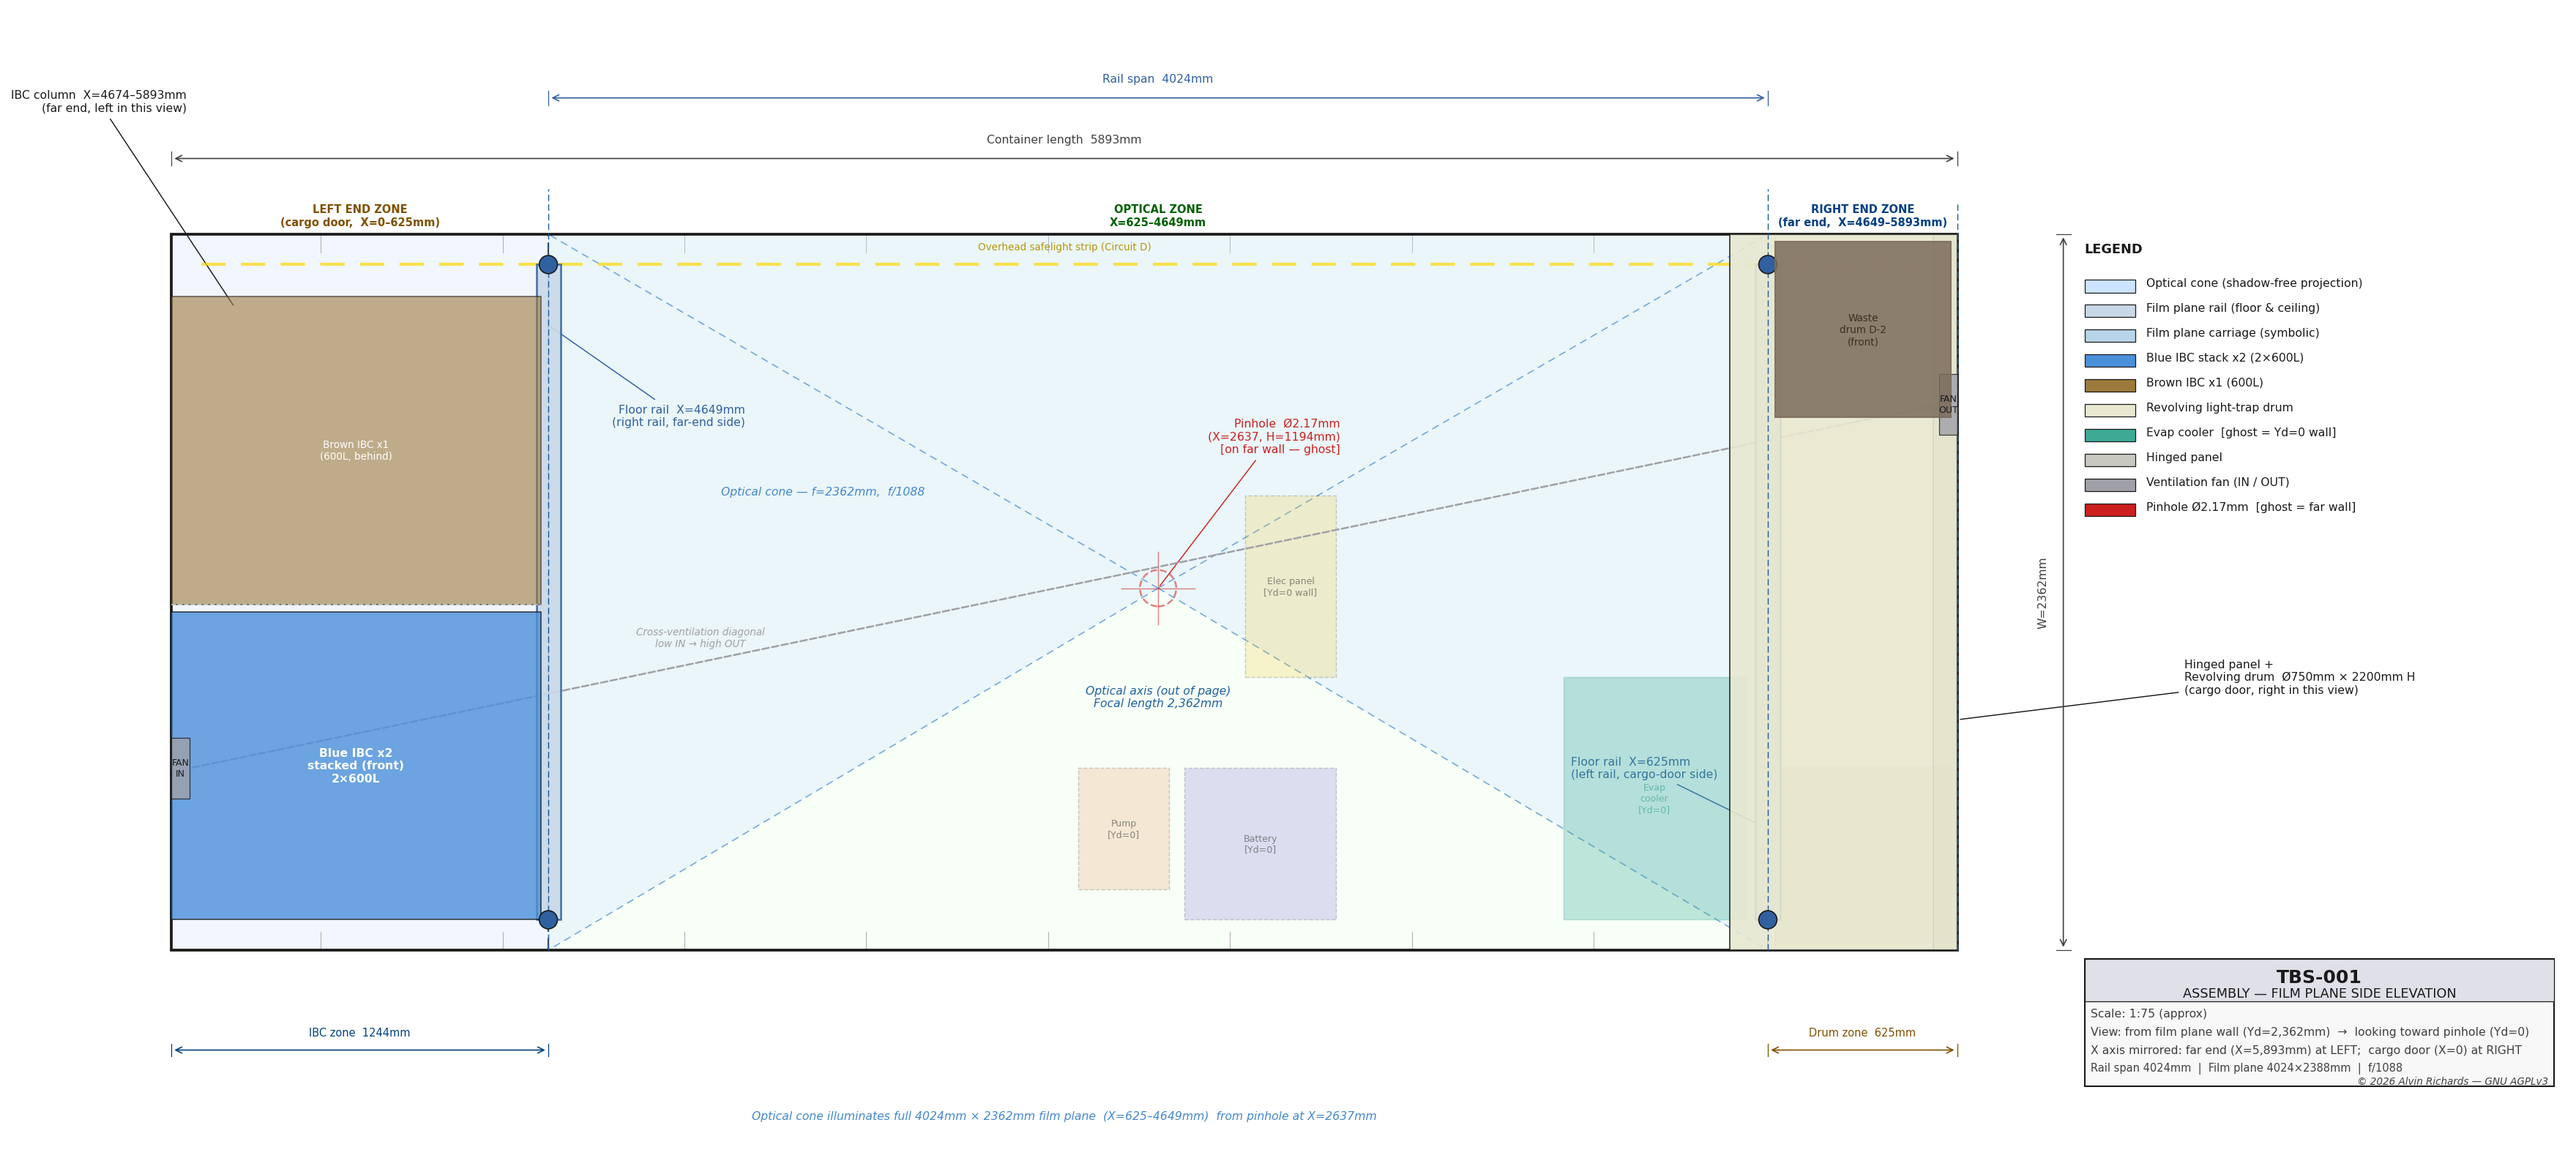
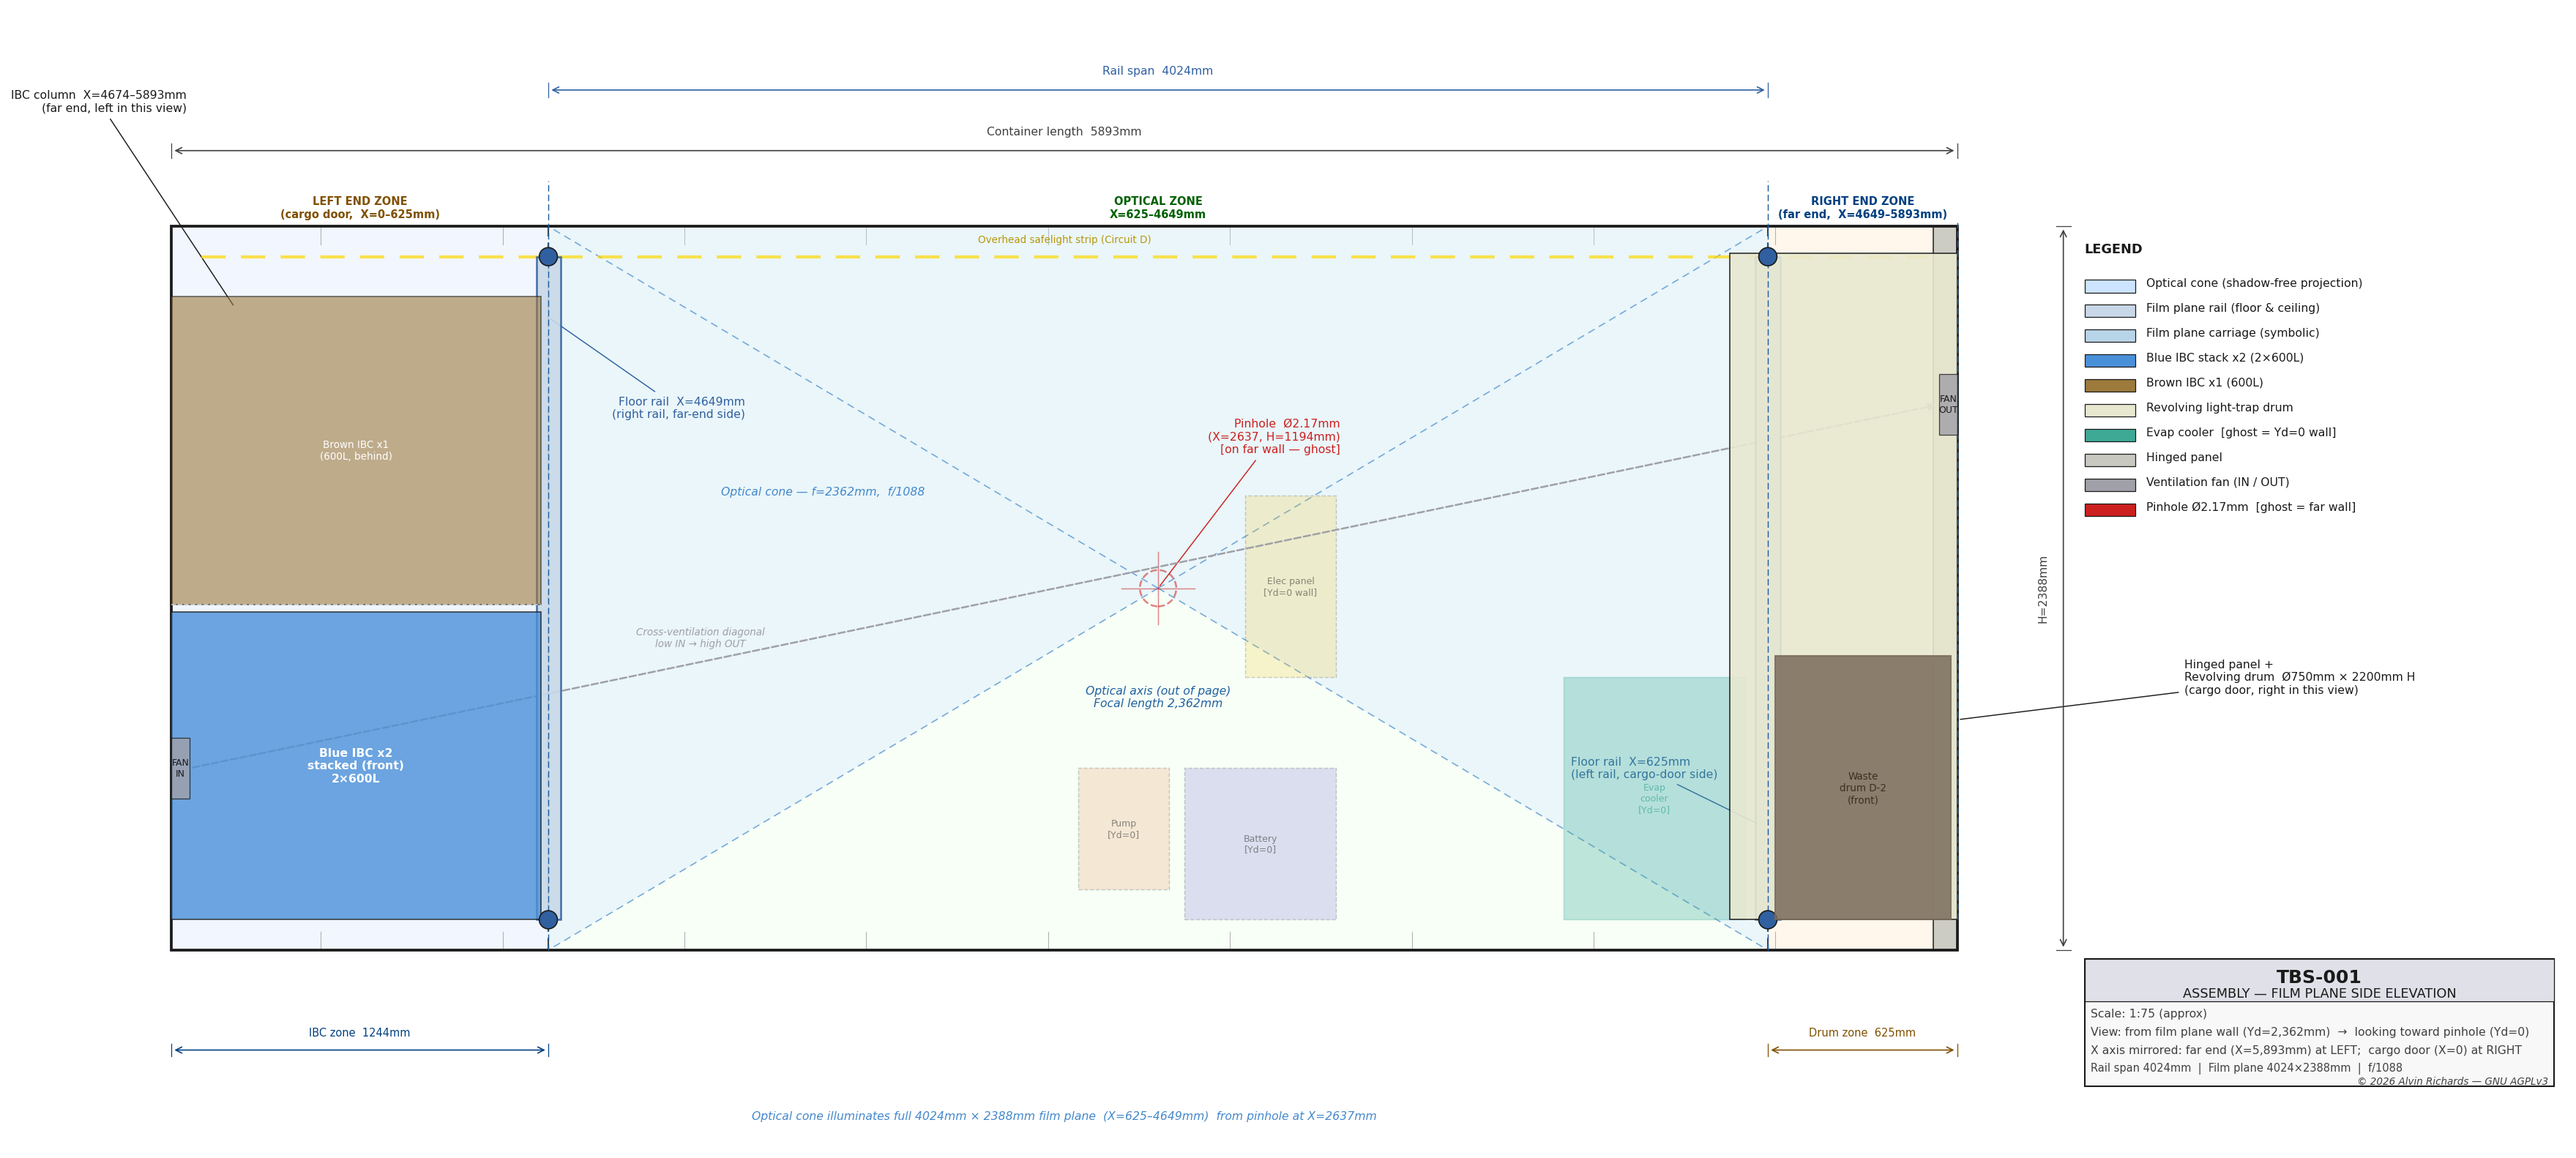
Revert "Fix top-down view: use correct Yd positions and C_WID throughout"
This reverts commit 104f43bd3e2fffe64f2b70eee402fd8566283585.

Changed region(s): [[0.0619, 0.0619, 0.7744, 0.3717], [0.6505, 0.5575, 0.7744, 0.8363], [0.2168, 0.3407, 0.3097, 0.3717]]

diff --git a/generate_assembly_overview.py b/generate_assembly_overview.py
@@ -42,8 +42,7 @@ from tbs_constants import (
     IBC_COL_X, IBC_W, IBC_D, IBC_H_STK, IBC_H_600,
     BLUE_IBC_Y, BROWN_IBC_Y,
     DRUM_EQ_D, DRUM_EQ_H, DRUM_EQ_R,
-    DRUM_LZ_CX, DRUM_LZ_YD_LO,
-    DRUM_FZ_CX, DRUM_FZ_YD_LO,
+    DRUM_LZ_CX, DRUM_FZ_CX,
     RAIL_X_L, RAIL_X_R, RAIL_SPAN,
     FAN_A_H, FAN_B_H, FAN_DIAM, DUCT_HEIGHT,
     DIAGRAMS_DIR,
@@ -489,38 +488,38 @@ def dim2h(x1, x2, y, label, offset=80, fs=FS_SM, color=C_DIM):
             fontsize=fs, color=color)
 
 # ── Zone fills ────────────────────────────────────────────────────────────────
-ax2.add_patch(mpatches.Rectangle((mx(ZONE_L_END), 0), ZONE_L_END, C_WID,
+ax2.add_patch(mpatches.Rectangle((mx(ZONE_L_END), 0), ZONE_L_END, C_HGT,
              facecolor=C_ZONE_L, edgecolor="none", alpha=0.6, zorder=0))
-ax2.add_patch(mpatches.Rectangle((mx(ZONE_R_START), 0), ZONE_R_START - ZONE_L_END, C_WID,
+ax2.add_patch(mpatches.Rectangle((mx(ZONE_R_START), 0), ZONE_R_START - ZONE_L_END, C_HGT,
              facecolor=C_ZONE_O, edgecolor="none", alpha=0.5, zorder=0))
-ax2.add_patch(mpatches.Rectangle((0, 0), C_LEN - ZONE_R_START, C_WID,
+ax2.add_patch(mpatches.Rectangle((0, 0), C_LEN - ZONE_R_START, C_HGT,
              facecolor=C_ZONE_R, edgecolor="none", alpha=0.6, zorder=0))
 
 for xb in [ZONE_L_END, ZONE_R_START]:
-    ax2.plot([mx(xb), mx(xb)], [0, C_WID], color=C_DIM, lw=1.0, ls="--",
+    ax2.plot([mx(xb), mx(xb)], [0, C_HGT], color=C_DIM, lw=1.0, ls="--",
             dashes=(8, 4), zorder=4)
 
 # Zone labels — note LEFT/RIGHT labels swap because view is mirrored
-ax2.text(mx(ZONE_L_END/2), C_WID + 100,
+ax2.text(mx(ZONE_L_END/2), C_HGT + 100,
         f"RIGHT END ZONE\n(far end,  X={ZONE_R_START}–{C_LEN}mm)",
         ha="center", va="top", fontsize=FS_SM - 0.5, color="#004080",
         fontweight="bold", zorder=5)
-ax2.text(mx((ZONE_L_END + ZONE_R_START) / 2), C_WID + 100,
+ax2.text(mx((ZONE_L_END + ZONE_R_START) / 2), C_HGT + 100,
         f"OPTICAL ZONE\nX={ZONE_L_END}–{ZONE_R_START}mm",
         ha="center", va="top", fontsize=FS_SM - 0.5, color="#006000",
         fontweight="bold", zorder=5)
-ax2.text(mx((ZONE_R_START + C_LEN) / 2), C_WID + 100,
+ax2.text(mx((ZONE_R_START + C_LEN) / 2), C_HGT + 100,
         f"LEFT END ZONE\n(cargo door,  X=0–{ZONE_L_END}mm)",
         ha="center", va="top", fontsize=FS_SM - 0.5, color="#805000",
         fontweight="bold", zorder=5)
 
 # ── Container outline ─────────────────────────────────────────────────────────
-ax2.add_patch(mpatches.Rectangle((0, 0), C_LEN, C_WID,
+ax2.add_patch(mpatches.Rectangle((0, 0), C_LEN, C_HGT,
              facecolor="none", edgecolor=C_OUT, linewidth=1.8, zorder=5))
 for xc in range(0, C_LEN + 1, 600):
     pxc = mx(xc)
     ax2.plot([pxc, pxc], [0, 60], color="#B0B0B0", lw=0.5, zorder=1)
-    ax2.plot([pxc, pxc], [C_WID - 60, C_WID], color="#B0B0B0", lw=0.5, zorder=1)
+    ax2.plot([pxc, pxc], [C_HGT - 60, C_HGT], color="#B0B0B0", lw=0.5, zorder=1)
 
 # ── OPTICAL CONE — the hero element of this view ──────────────────────────────
 # The pinhole is at (PH_X, 0, PH_H) — on the near wall (Yd=0), which is the
@@ -530,12 +529,12 @@ C_CONE   = "#4488CC"
 C_CONE_L = "#CCE4FF"
 
 cone_poly_x = [mx(PH_X), mx(FP_X_L), mx(FP_X_L), mx(FP_X_R), mx(FP_X_R), mx(PH_X)]
-cone_poly_h = [PH_H,      0,           C_WID,       C_WID,       0,           PH_H]
+cone_poly_h = [PH_H,      0,           C_HGT,       C_HGT,       0,           PH_H]
 ax2.fill(cone_poly_x, cone_poly_h, facecolor=C_CONE_L, edgecolor="none",
          alpha=0.30, zorder=1)
 # Bounding rays
 for fx in [FP_X_L, FP_X_R]:
-    for fh in [0, C_WID]:
+    for fh in [0, C_HGT]:
         ax2.plot([mx(PH_X), mx(fx)], [PH_H, fh],
                 color=C_CONE, lw=0.8, ls="--", dashes=(6, 4), alpha=0.7, zorder=2)
 
@@ -544,19 +543,19 @@ ax2.text(mx(PH_X + (FP_X_R - PH_X) * 0.55), PH_H + 300,
         ha="center", va="bottom", fontsize=FS_SM, color=C_CONE, style="italic", zorder=6)
 
 # ── FILM PLANE RAILS — the dominant structural feature ───────────────────────
-# Rail tracks at X=RAIL_X_L and X=RAIL_X_R, spanning RAIL_OFF to C_WID-RAIL_OFF
+# Rail tracks at X=RAIL_X_L and X=RAIL_X_R, spanning RAIL_OFF to C_HGT-RAIL_OFF
 RAIL_T   = 40    # rail half-width in drawing
 RAIL_CLR = "#3060A0"
 
 C_ALUM2 = "#C8D8E8"
 for rx in [RAIL_X_L, RAIL_X_R]:
     ax2.add_patch(mpatches.Rectangle(
-        (mx(rx) - RAIL_T, RAIL_OFF), RAIL_T * 2, C_WID - 2 * RAIL_OFF,
+        (mx(rx) - RAIL_T, RAIL_OFF), RAIL_T * 2, C_HGT - 2 * RAIL_OFF,
         facecolor=C_ALUM2, edgecolor=RAIL_CLR, linewidth=1.2, alpha=0.9, zorder=5))
 
 # Rail centre lines
 for rx in [RAIL_X_L, RAIL_X_R]:
-    ax2.plot([mx(rx), mx(rx)], [0, C_WID + 150],
+    ax2.plot([mx(rx), mx(rx)], [0, C_HGT + 150],
             color=C_CL, lw=0.7, ls="--", dashes=(6, 3), zorder=6)
 
 # Rail span dimension
@@ -578,7 +577,7 @@ for rx in [RAIL_X_L, RAIL_X_R]:
 
 # Rail anchor marks at floor and ceiling
 for rx in [RAIL_X_L, RAIL_X_R]:
-    for ry in [RAIL_OFF, C_WID - RAIL_OFF]:
+    for ry in [RAIL_OFF, C_HGT - RAIL_OFF]:
         ax2.add_patch(plt.Circle((mx(rx), ry), 30,
                      facecolor=RAIL_CLR, edgecolor=C_OUT, linewidth=0.8, zorder=6))
 
@@ -600,18 +599,18 @@ ax2.text(mx(PH_X), PH_H - 320,
 # Rail labels
 ldr2(RAIL_X_L, RAIL_OFF + 300, RAIL_X_L + 650, 600,
     f"Floor rail  X={RAIL_X_L}mm\n(left rail, cargo-door side)", ha="left", fs=FS_SM, color=RAIL_CLR)
-ldr2(RAIL_X_R, C_WID - 300, RAIL_X_R - 650, C_WID - 600,
+ldr2(RAIL_X_R, C_HGT - 300, RAIL_X_R - 650, C_HGT - 600,
     f"Floor rail  X={RAIL_X_R}mm\n(right rail, far-end side)", ha="right", fs=FS_SM, color=RAIL_CLR)
 
 # ── LEFT END ZONE (appears on RIGHT in this view) — drum, evap, waste drums ──
-# Hinged panel — right edge of plot (near cargo door = X=0), spans full Yd width
-ax2.add_patch(mpatches.Rectangle((C_LEN - 80, 0), 80, C_WID,
+# Hinged panel — right edge of plot (near cargo door = X=0)
+ax2.add_patch(mpatches.Rectangle((C_LEN - 80, 0), 80, C_HGT,
              facecolor=C_DOOR, edgecolor=C_OUT, linewidth=0.8, alpha=0.9, zorder=4))
 
-# Revolving drum — spans full container width in Yd
-ax2.add_patch(mpatches.Rectangle((C_LEN - DRUM_D, 0), DRUM_D, C_WID,
+# Revolving drum
+ax2.add_patch(mpatches.Rectangle((C_LEN - DRUM_D, RAIL_OFF), DRUM_D, DRUM_H_ELV,
              facecolor=C_DRUM_LT, edgecolor=C_OUT, linewidth=0.8, alpha=0.9, zorder=5))
-ax2.plot([C_LEN, C_LEN], [0, C_WID + 100],
+ax2.plot([C_LEN, C_LEN], [RAIL_OFF, RAIL_OFF + DRUM_H_ELV + 100],
         color=C_CL, lw=0.7, ls="--", dashes=(6, 3), zorder=6)
 
 # Evap cooler (ghost — at Yd=0)
@@ -622,23 +621,22 @@ ax2.text(mx(EVAP_X + EVAP_W/2), RAIL_OFF + EVAP_H/2,
         fontsize=FS_SM - 1.5, color="#3DAA96", alpha=0.7, zorder=4)
 
 # Waste drums: two 55-gal drums, same X column, different Yd.
-# Top-down: Y axis = Yd.  Footprint is circular → DRUM_EQ_D × DRUM_EQ_D.
 # From this viewpoint (Yd=2362 looking toward Yd=0):
 #   DRUM_LZ (Yd=25–605mm)     — behind the revolving drum → ghost, low zorder
 #   DRUM_FZ (Yd=1757–2337mm)  — in front of the revolving drum → solid, high zorder
 _dlx0 = DRUM_LZ_CX - DRUM_EQ_R   # = 20mm (same X for both drums)
 
 # D-1 (far from viewer — ghost, behind light trap drum)
-eq2(_dlx0, DRUM_LZ_YD_LO, DRUM_EQ_D, DRUM_EQ_D, C_DRUM_EQ, alpha=0.20, zorder=4,
+eq2(_dlx0, RAIL_OFF, DRUM_EQ_D, DRUM_EQ_H, C_DRUM_EQ, alpha=0.20, zorder=4,
     ec="#7A6B5A", lw=0.6)
 
 # Revolving light trap drum drawn at zorder=5 (above D-1 ghost)
 
 # D-2 (close to viewer — solid, in front of light trap drum)
 _dfx0 = DRUM_FZ_CX - DRUM_EQ_R   # = 20mm
-eq2(_dfx0, DRUM_FZ_YD_LO, DRUM_EQ_D, DRUM_EQ_D, C_DRUM_EQ, alpha=0.85, zorder=7,
+eq2(_dfx0, RAIL_OFF, DRUM_EQ_D, DRUM_EQ_H, C_DRUM_EQ, alpha=0.85, zorder=7,
     ec="#7A6B5A", lw=1.0)
-ax2.text(mx(_dfx0 + DRUM_EQ_D / 2), DRUM_FZ_YD_LO + DRUM_EQ_D / 2,
+ax2.text(mx(_dfx0 + DRUM_EQ_D / 2), RAIL_OFF + DRUM_EQ_H / 2,
         "Waste\ndrum D-2\n(front)",
         ha="center", va="center", fontsize=FS_SM - 1, color="#3D2E22", zorder=8)
 
@@ -703,13 +701,13 @@ ax2.text((C_LEN)/2 - 1200, (FAN_A_H + FAN_B_H)/2 - 200,
         fontsize=FS_SM - 1, color=C_FAN, style="italic", zorder=5)
 
 # ── Safelight ─────────────────────────────────────────────────────────────────
-ax2.plot([100, C_LEN - 100], [C_WID - 100, C_WID - 100],
+ax2.plot([100, C_LEN - 100], [C_HGT - 100, C_HGT - 100],
         color="#FFD700", lw=2, ls="--", dashes=(8, 5), alpha=0.7, zorder=4)
-ax2.text(C_LEN/2, C_WID - 60, "Overhead safelight strip (Circuit D)",
+ax2.text(C_LEN/2, C_HGT - 60, "Overhead safelight strip (Circuit D)",
         ha="center", va="bottom", fontsize=FS_SM - 1, color="#B8960A")
 
 # ── Dimensions ────────────────────────────────────────────────────────────────
-DIM_TOP2   = C_WID + 250
+DIM_TOP2   = C_HGT + 250
 DIM_BOT2   = -250
 DIM_LEFT2  = C_LEN + 350   # left in plot = far end (X=C_LEN) in real coords
 
@@ -722,15 +720,15 @@ ax2.text(C_LEN/2, DIM_TOP2 + 80*0.55, f"Container length  {C_LEN}mm",
 
 dim2h(FP_X_L, FP_X_R, DIM_TOP2 + 200, f"Rail span  {RAIL_SPAN}mm", offset=80, color=RAIL_CLR)
 
-ax2.annotate("", xy=(DIM_LEFT2, C_WID), xytext=(DIM_LEFT2, 0),
+ax2.annotate("", xy=(DIM_LEFT2, C_HGT), xytext=(DIM_LEFT2, 0),
             arrowprops=dict(arrowstyle="<->", color=C_DIM, lw=0.8))
 ax2.plot([DIM_LEFT2 - 80*0.3, DIM_LEFT2 + 80*0.3], [0, 0], color=C_DIM, lw=0.6)
-ax2.plot([DIM_LEFT2 - 80*0.3, DIM_LEFT2 + 80*0.3], [C_WID, C_WID], color=C_DIM, lw=0.6)
-ax2.text(DIM_LEFT2 - 80*0.6, C_WID/2, f"W={C_WID}mm",
+ax2.plot([DIM_LEFT2 - 80*0.3, DIM_LEFT2 + 80*0.3], [C_HGT, C_HGT], color=C_DIM, lw=0.6)
+ax2.text(DIM_LEFT2 - 80*0.6, C_HGT/2, f"H={C_HGT}mm",
         ha="right", va="center", fontsize=FS_SM, color=C_DIM, rotation=90)
 
 ax2.text(C_LEN/2, DIM_BOT2 - 280,
-        f"Optical cone illuminates full {FP_W}mm × {C_WID}mm film plane"
+        f"Optical cone illuminates full {FP_W}mm × {C_HGT}mm film plane"
         f"  (X={FP_X_L}–{FP_X_R}mm)  from pinhole at X={PH_X}mm",
         ha="center", va="top", fontsize=FS_SM, color=C_CONE, style="italic")
 
